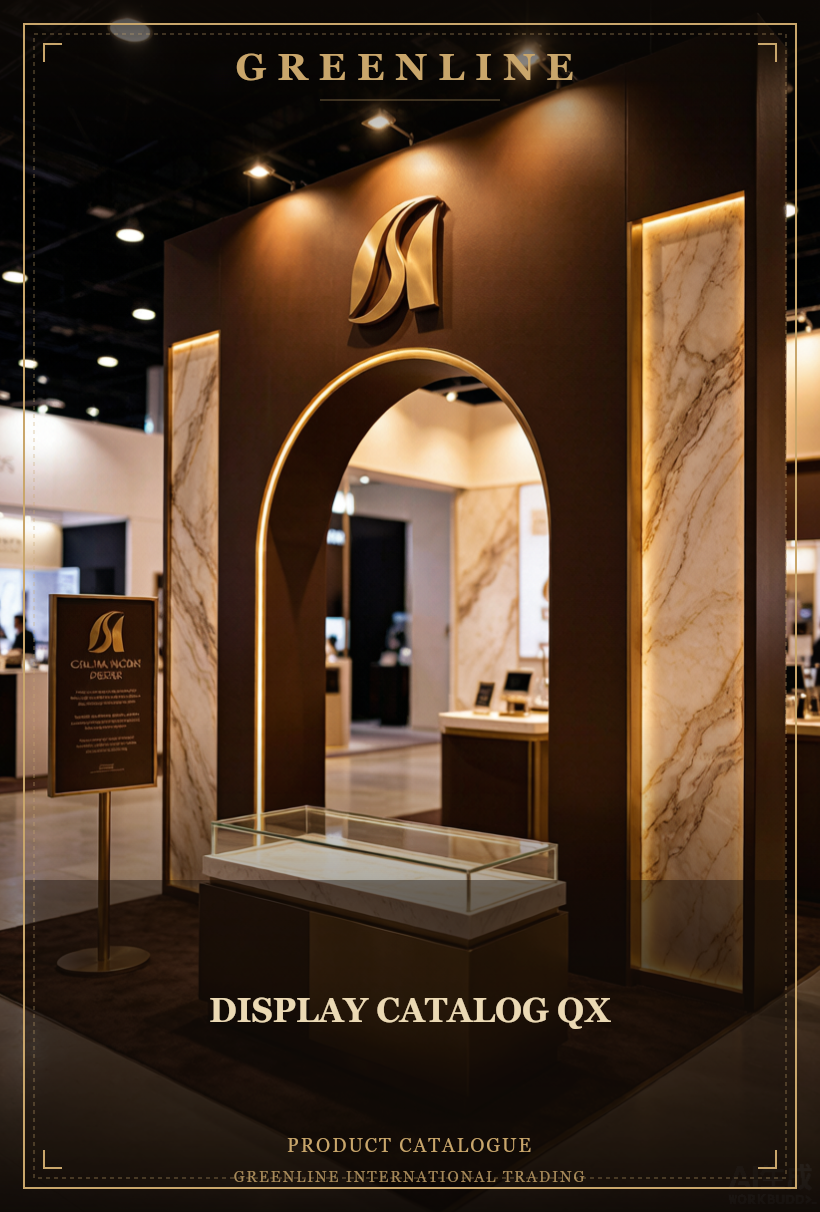
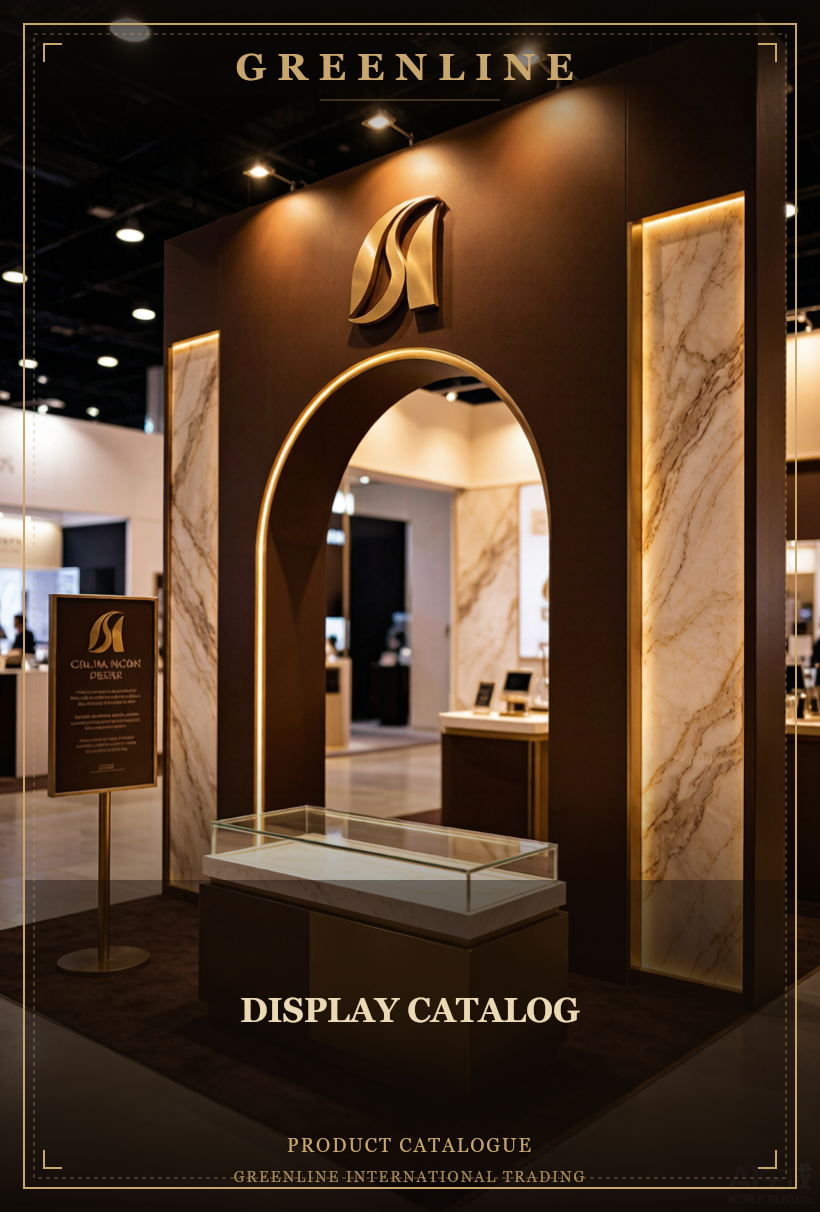
Remove series codes from 10 catalog titles and covers (GL-AD, GL-FT, LC/QX/RDF/MSA/泽景)

Changed region(s): [[0.2439, 0.8243, 0.7622, 0.8548]]

diff --git a/catalog/catalogs.js b/catalog/catalogs.js
@@ -111,8 +111,8 @@ window.CATALOGS = [
   {
     "folder": "gl-ad-office-chair",
     "category": "chair",
-    "title_cn": "GL-AD 办公椅目录册 2025",
-    "title_en": "GL-AD OFFICE CHAIR CATALOGUE 2025",
+    "title_cn": "办公椅目录册 2025",
+    "title_en": "OFFICE CHAIR CATALOGUE 2025",
     "pages": 159,
     "cover_cn": "./gl-ad-office-chair/cover_cn.png",
     "cover_en": "./gl-ad-office-chair/cover_en.png"
@@ -120,8 +120,8 @@ window.CATALOGS = [
   {
     "folder": "gl-ft-gaming-chair",
     "category": "chair",
-    "title_cn": "GL-FT 电竞椅目录册",
-    "title_en": "GL-FT GAMING CHAIR CATALOG",
+    "title_cn": "电竞椅目录册",
+    "title_en": "GAMING CHAIR CATALOG",
     "pages": 8,
     "cover_cn": "./gl-ft-gaming-chair/cover_cn.png",
     "cover_en": "./gl-ft-gaming-chair/cover_en.png"
@@ -129,8 +129,8 @@ window.CATALOGS = [
   {
     "folder": "gl-ft-office-chair",
     "category": "chair",
-    "title_cn": "GL-FT 办公椅目录册",
-    "title_en": "GL-FT OFFICE CHAIR CATALOG",
+    "title_cn": "办公椅目录册",
+    "title_en": "OFFICE CHAIR CATALOG",
     "pages": 4,
     "cover_cn": "./gl-ft-office-chair/cover_cn.png",
     "cover_en": "./gl-ft-office-chair/cover_en.png"
@@ -138,8 +138,8 @@ window.CATALOGS = [
   {
     "folder": "gl-ft-mesh-chair",
     "category": "chair",
-    "title_cn": "GL-FT 网椅目录册",
-    "title_en": "GL-FT MESH CHAIR CATALOG",
+    "title_cn": "网椅目录册",
+    "title_en": "MESH CHAIR CATALOG",
     "pages": 12,
     "cover_cn": "./gl-ft-mesh-chair/cover_cn.png",
     "cover_en": "./gl-ft-mesh-chair/cover_en.png"
@@ -147,8 +147,8 @@ window.CATALOGS = [
   {
     "folder": "gl-ad-leather-chair",
     "category": "chair",
-    "title_cn": "GL-AD 皮椅目录册 2025",
-    "title_en": "GL-AD LEATHER CHAIR CATALOG 2025",
+    "title_cn": "皮椅目录册 2025",
+    "title_en": "LEATHER CHAIR CATALOG 2025",
     "pages": 1,
     "cover_cn": "./gl-ad-leather-chair/cover_cn.png",
     "cover_en": "./gl-ad-leather-chair/cover_en.png"
@@ -201,8 +201,8 @@ window.CATALOGS = [
   {
     "folder": "warehouse-rack",
     "category": "shelf",
-    "title_cn": "仓储货架目录册 LC SERIES",
-    "title_en": "WAREHOUSE RACK LC SERIES",
+    "title_cn": "仓储货架目录册",
+    "title_en": "WAREHOUSE RACK CATALOG",
     "pages": 27,
     "cover_cn": "./warehouse-rack/cover_cn.png",
     "cover_en": "./warehouse-rack/cover_en.png"
@@ -228,8 +228,8 @@ window.CATALOGS = [
   {
     "folder": "display-qx",
     "category": "shelf",
-    "title_cn": "展示架目录册 QX",
-    "title_en": "DISPLAY CATALOG QX",
+    "title_cn": "展示架目录册",
+    "title_en": "DISPLAY CATALOG",
     "pages": 41,
     "cover_cn": "./display-qx/cover_cn.png",
     "cover_en": "./display-qx/cover_en.png"
@@ -246,8 +246,8 @@ window.CATALOGS = [
   {
     "folder": "landscape-rdf",
     "category": "decor",
-    "title_cn": "景观花艺图册 RDF",
-    "title_en": "LANDSCAPE & FLORAL CATALOG RDF",
+    "title_cn": "景观花艺图册",
+    "title_en": "LANDSCAPE & FLORAL CATALOG",
     "pages": 55,
     "cover_cn": "./landscape-rdf/cover_cn.png",
     "cover_en": "./landscape-rdf/cover_en.png"
@@ -255,8 +255,8 @@ window.CATALOGS = [
   {
     "folder": "wall-panel-zejing",
     "category": "decor",
-    "title_cn": "GREENLINE 3D 墙板目录册 泽景",
-    "title_en": "GREENLINE 3D WALL PANEL CATALOG ZEJING",
+    "title_cn": "GREENLINE 3D 墙板目录册",
+    "title_en": "GREENLINE 3D WALL PANEL CATALOG",
     "pages": 27,
     "cover_cn": "./wall-panel-zejing/cover_cn.png",
     "cover_en": "./wall-panel-zejing/cover_en.png"
@@ -363,8 +363,8 @@ window.CATALOGS = [
   {
     "folder": "lighting",
     "category": "hardware",
-    "title_cn": "灯具目录册 MSA SERIES",
-    "title_en": "LIGHTING CATALOGUE MSA SERIES",
+    "title_cn": "灯具目录册",
+    "title_en": "LIGHTING CATALOGUE",
     "pages": 31,
     "cover_cn": "./lighting/cover_cn.png",
     "cover_en": "./lighting/cover_en.png"
